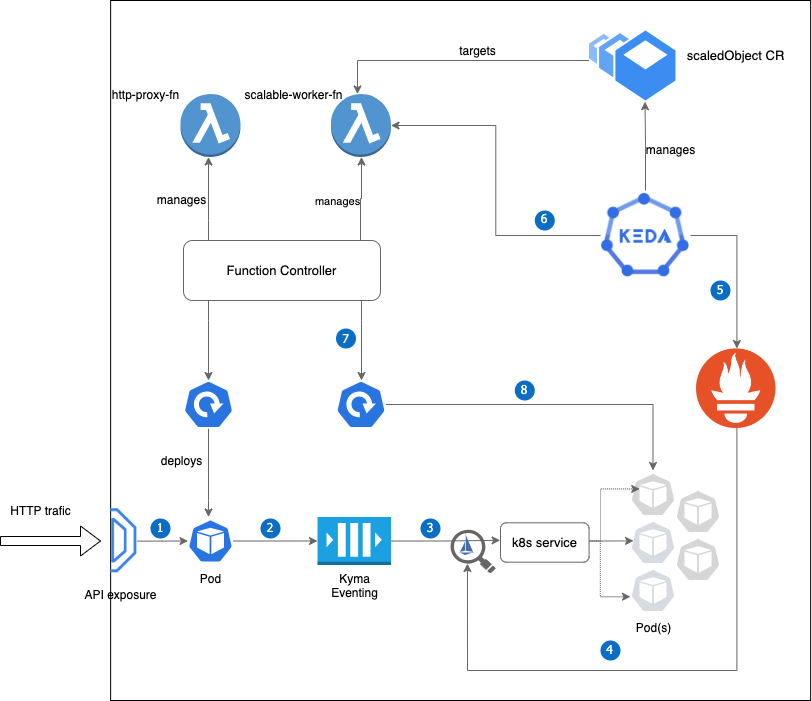
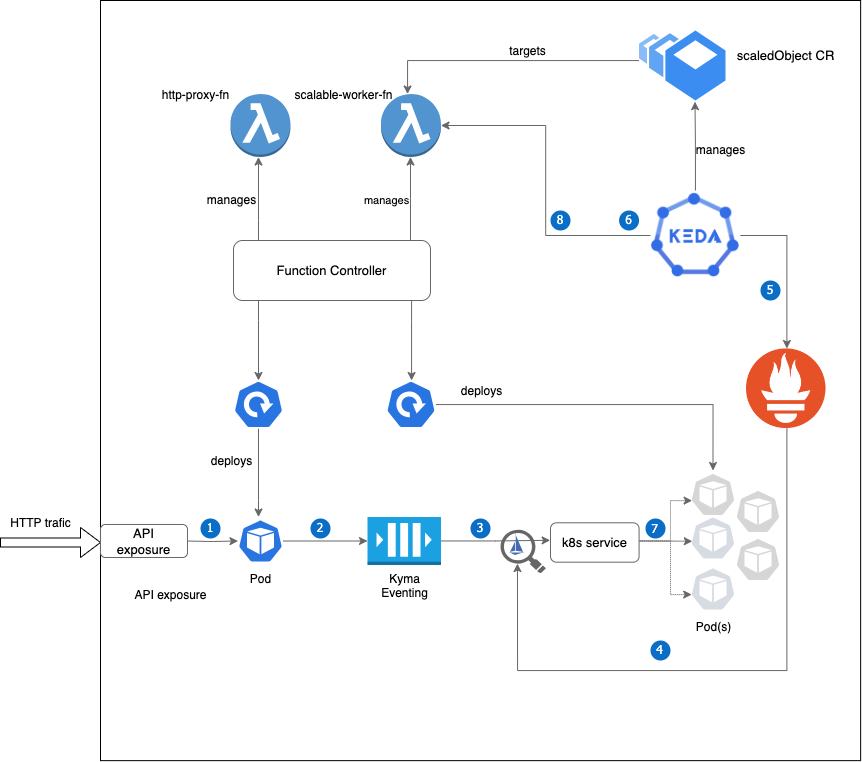
apply suggestions from code review

diff --git a/examples/scale-to-zero-with-keda/README.md b/examples/scale-to-zero-with-keda/README.md
@@ -10,14 +10,14 @@ It uses:
 
 It realises the following scenario:
 
-![scenario](assets/scaling-scenario.png "Scenario")
+![KEDA scaling scenario](assets/scaling-scenario.png "Scenario")
 
-1. `http request` arrives in the `http-proxy-fn` Pod
-2. `http-proxy-fn` sends a message to the initially scaled-down `scalable-worker-fn` using Kyma Eventing
-3. Eventing keeps resending the message until it's received and acknowledged
-4. Prometheus records the traffic between Eventing and the `scalable-worker-fn` Kubernetes service
-5. KEDA reads a non-zero request rate targeted for the `scalable-worker-fn` Kubernetes service
-6. KEDA scales up the `scalable-worker-fn` Pod
+1. `http request` arrives in the `http-proxy-fn` Pod.
+2. `http-proxy-fn` sends a message to the initially scaled-down `scalable-worker-fn` using Kyma Eventing.
+3. Eventing keeps resending the message until it's received and acknowledged.
+4. Prometheus records the traffic between Eventing and the `scalable-worker-fn` Kubernetes service.
+5. KEDA reads a non-zero request rate targeted for the `scalable-worker-fn` Kubernetes service.
+6. KEDA scales up the `scalable-worker-fn` Function. Function Controller spins up the new Pod replicas.
 7. `scalable-worker-fn` eventually receives the message from Eventing and processes it; Eventing receives the acknowledgment and stops resending 
 8. After a cooldown period, the request rate targeted for `scalable-worker-fn` is again zero - KEDA scales it back down to zero
 
